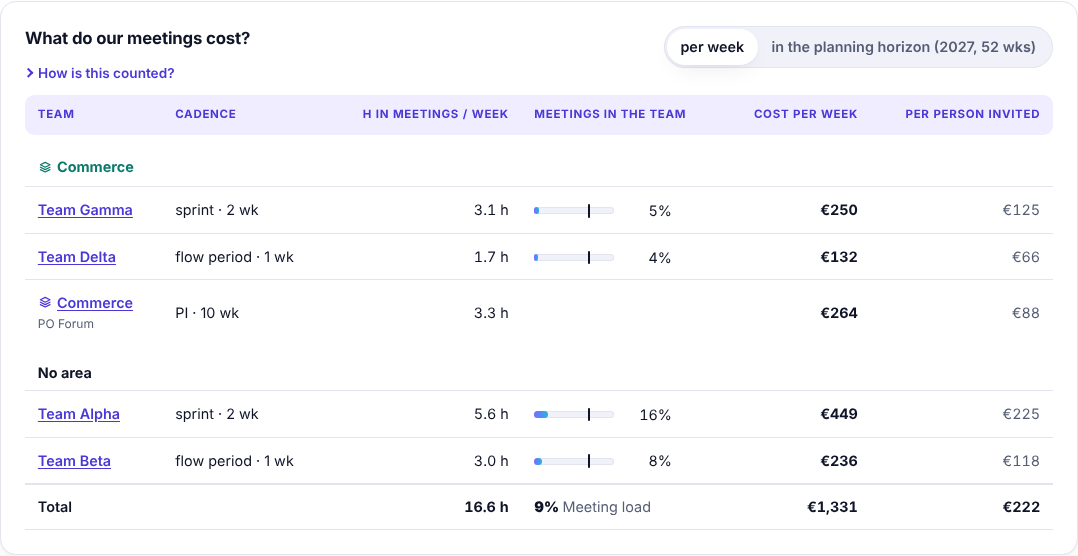
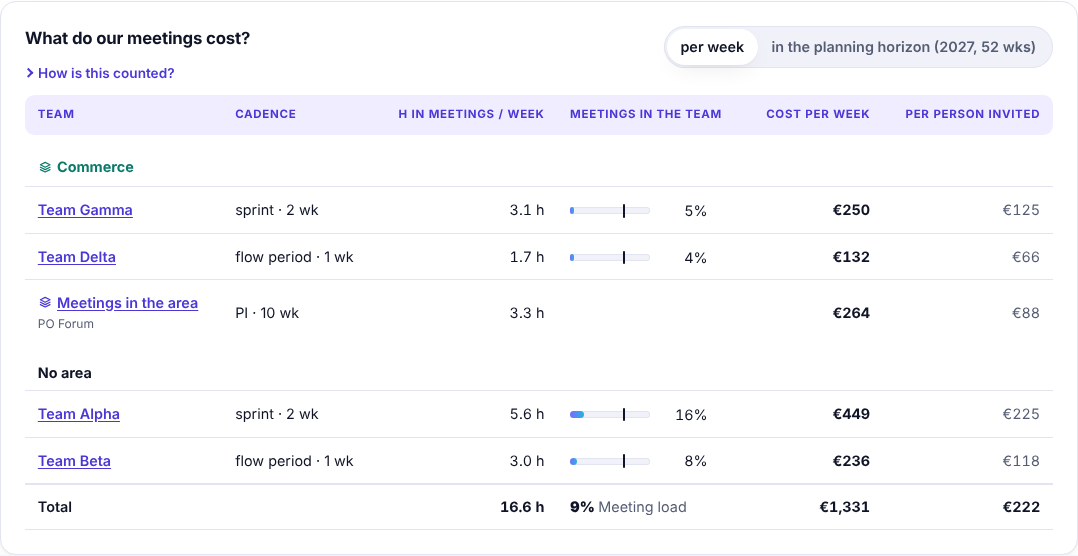
Address review: organisation row in its own group, area row label, print (#467)

diff --git a/src/ui/views/AreaOverview.svelte b/src/ui/views/AreaOverview.svelte
@@ -235,6 +235,8 @@
    * The organisation groups its teams under their area, each with the area's own meetings, and
    * the teams without an area last (#467). An area's overview is one group without a heading.
    */
+  /** Only the organisation lists areas' own rows: under the area's heading, not its name again. */
+  const ownLabel = $derived($t('overview.cost.areaRow', { levelInArea: $levels.inArea }));
   const noArea = $derived(
     costs.teams.filter((r) => !ws.areas.some((a) => a.teamIds.includes(r.unitId))),
   );
@@ -247,9 +249,8 @@
             teams: costs.teams.filter((r) => a.teamIds.includes(r.unitId)),
             own: costs.areas.filter((r) => r.unitId === a.id),
           })),
-          // Last even when empty: the organisation's own meetings close it.
-          { area: undefined, heading: noArea.length > 0, teams: noArea, own: [] },
-        ].filter((g, i, all) => g.teams.length + g.own.length > 0 || i === all.length - 1)
+          { area: undefined, heading: true, teams: noArea, own: [] },
+        ].filter((g) => g.teams.length + g.own.length > 0)
       : [{ area: undefined, heading: false, teams: costs.teams, own: costs.areas }],
   );
   const unitOf = (id: string) =>
@@ -638,6 +639,46 @@
       })}
       tabindex="0"
     >
+      {#snippet ownRow()}
+        <tr class="area-row" data-cost-row={area.id}>
+          <th scope="row">
+            {#if onOpenUnit}
+              <button
+                type="button"
+                class="link area-name"
+                class:org
+                aria-label={$t('overview.cost.open', {
+                  name: $t('overview.cost.areaRow'),
+                  view: $t('view.meetings'),
+                })}
+                onclick={() => onOpenUnit(area.id)}
+                >{@render ownIcon()} {$t('overview.cost.areaRow')}</button
+              >
+            {:else}
+              <span class="area-name" class:org
+                >{@render ownIcon()} {$t('overview.cost.areaRow')}</span
+              >
+            {/if}
+            {#if area.events.length > 0}
+              <small>{area.events.map((e) => e.name).join(', ')}</small>
+            {/if}
+            {#if rate && unfilledNote(costs.area.cost?.unfilled)}
+              <small data-unfilled>{unfilledNote(costs.area.cost?.unfilled)}</small>
+            {/if}
+          </th>
+          <td class="extra">{cadenceShort(area.cadence)}</td>
+          <td class="num">{$t('overview.kpi.area.value', { hours: hours(costs.area.hours) })}</td>
+          <td></td>
+          {#if rate && costs.area.cost}
+            <td class="num strong cost">{euro(costOf(costs.area.cost))}</td>
+            <td class="num muted extra"
+              >{costs.area.invited > 0
+                ? euro(costOf(costs.area.cost) / costs.area.invited)
+                : '–'}</td
+            >
+          {/if}
+        </tr>
+      {/snippet}
       <table class="costs" aria-labelledby="{uid}-cost">
         <thead>
           <tr>
@@ -651,7 +692,7 @@
             {/if}
           </tr>
         </thead>
-        {#each groups as g, i (g.area?.id ?? '')}
+        {#each groups as g (g.area?.id ?? '')}
           <tbody>
             {#if g.heading}
               <tr class="group">
@@ -727,13 +768,13 @@
                       type="button"
                       class="link area-name"
                       aria-label={$t('overview.cost.open', {
-                        name: unitName(r.unitId),
+                        name: `${ownLabel}, ${unitName(r.unitId)}`,
                         view: $t('view.meetings'),
                       })}
-                      onclick={() => onOpenUnit(r.unitId)}><AreaIcon /> {unitName(r.unitId)}</button
+                      onclick={() => onOpenUnit(r.unitId)}><AreaIcon /> {ownLabel}</button
                     >
                   {:else}
-                    <span class="area-name"><AreaIcon /> {unitName(r.unitId)}</span>
+                    <span class="area-name"><AreaIcon /> {ownLabel}</span>
                   {/if}
                   {#if a && a.events.length > 0}
                     <small>{a.events.map((e) => e.name).join(', ')}</small>
@@ -753,50 +794,11 @@
                 {/if}
               </tr>
             {/each}
-            {#if i === groups.length - 1 && (!summary || area.events.length > 0)}
-              <tr class="area-row" data-cost-row={area.id}>
-                <th scope="row">
-                  {#if onOpenUnit}
-                    <button
-                      type="button"
-                      class="link area-name"
-                      class:org
-                      aria-label={$t('overview.cost.open', {
-                        name: $t('overview.cost.areaRow'),
-                        view: $t('view.meetings'),
-                      })}
-                      onclick={() => onOpenUnit(area.id)}
-                      >{@render ownIcon()} {$t('overview.cost.areaRow')}</button
-                    >
-                  {:else}
-                    <span class="area-name" class:org
-                      >{@render ownIcon()} {$t('overview.cost.areaRow')}</span
-                    >
-                  {/if}
-                  {#if area.events.length > 0}
-                    <small>{area.events.map((e) => e.name).join(', ')}</small>
-                  {/if}
-                  {#if rate && unfilledNote(costs.area.cost?.unfilled)}
-                    <small data-unfilled>{unfilledNote(costs.area.cost?.unfilled)}</small>
-                  {/if}
-                </th>
-                <td class="extra">{cadenceShort(area.cadence)}</td>
-                <td class="num"
-                  >{$t('overview.kpi.area.value', { hours: hours(costs.area.hours) })}</td
-                >
-                <td></td>
-                {#if rate && costs.area.cost}
-                  <td class="num strong cost">{euro(costOf(costs.area.cost))}</td>
-                  <td class="num muted extra"
-                    >{costs.area.invited > 0
-                      ? euro(costOf(costs.area.cost) / costs.area.invited)
-                      : '–'}</td
-                  >
-                {/if}
-              </tr>
-            {/if}
+            {#if !summary}{@render ownRow()}{/if}
           </tbody>
         {/each}
+        <!-- The organisation's own meetings close the table, in no area's group (#467). -->
+        {#if summary && area.events.length > 0}<tbody>{@render ownRow()}</tbody>{/if}
         <tfoot>
           <tr data-cost-total>
             <th scope="row">{$t('overview.cost.total')}</th>
@@ -1333,6 +1335,9 @@
     font-weight: 700;
   }
   /* The organisation's area headings (#467): a label above its rows, not a row of figures. */
+  :global(#app) table.costs tbody tr.group {
+    break-after: avoid;
+  }
   :global(#app) table.costs tbody tr.group th {
     padding-top: 1.1rem;
     padding-bottom: 0.4rem;

diff --git a/tests/e2e/organisation.spec.ts b/tests/e2e/organisation.spec.ts
@@ -1,6 +1,14 @@
+import { readFileSync } from 'node:fs';
 import AxeBuilder from '@axe-core/playwright';
 import { expect, test } from '@playwright/test';
-import { currentUnit, openExample, showView, teamAction, useFileFallback } from './helpers';
+import {
+  currentUnit,
+  openExample,
+  openWorkspaceFile,
+  showView,
+  teamAction,
+  useFileFallback,
+} from './helpers';
 
 test.use({ locale: 'en-US' });
 test.beforeEach(async ({ page }) => {
@@ -115,6 +123,10 @@ test('the organisation shows alignment and cost per team, also without an area (
       .locator('tbody tr[data-cost-row]')
       .evaluateAll((rows) => rows.map((r) => r.getAttribute('data-cost-row'))),
   ).toEqual(['team-gamma', 'team-delta', 'area-commerce', 'team-alpha', 'team-beta']);
+  // Under its heading the area's own row does not repeat the area's name.
+  await expect(costs.locator('[data-cost-row="area-commerce"] button.link')).toHaveText(
+    'Meetings in the area',
+  );
   const week = (await costs.locator('[data-cost-total] .cost').textContent())!.trim();
   await expect(summary.locator('[data-kpi="cost"] b')).toHaveText(week);
   await costs.getByRole('button', { name: 'In the planning horizon' }).click();
@@ -159,4 +171,23 @@ test('the organisation summary fits a phone and prints (#450)', async ({ page })
   await expect(summary.locator('[data-kpi="cadence"]')).toBeVisible();
   await expect(summary.locator('[data-cost-total]')).toBeVisible();
   await expect(summary.locator('[data-area-costs] th[scope="rowgroup"]').first()).toBeVisible();
+});
+
+test("the organisation's own meetings close the cost table, in no area's group (#467)", async ({
+  page,
+}) => {
+  await page.goto('/');
+  const ws = JSON.parse(readFileSync('src/data/examples/example.caldence.json', 'utf8'));
+  ws.settings.locale = 'en';
+  ws.organisation = {
+    events: [{ ...ws.areas[0].events[0], id: 'ev-sync', name: 'Portfolio Sync' }],
+  };
+  await openWorkspaceFile(page, ws);
+  await pickOrg(page);
+  await showView(page, 'Organisation');
+  const costs = page.locator('[data-area-costs]');
+  const org = costs.locator('tbody:has([data-cost-row="@organisation"])');
+  await expect(org.locator('tr')).toHaveCount(1);
+  await expect(org.locator('th[scope="rowgroup"]')).toHaveCount(0);
+  await expect(costs.locator('tbody').last()).toHaveText(/Portfolio Sync/);
 });
